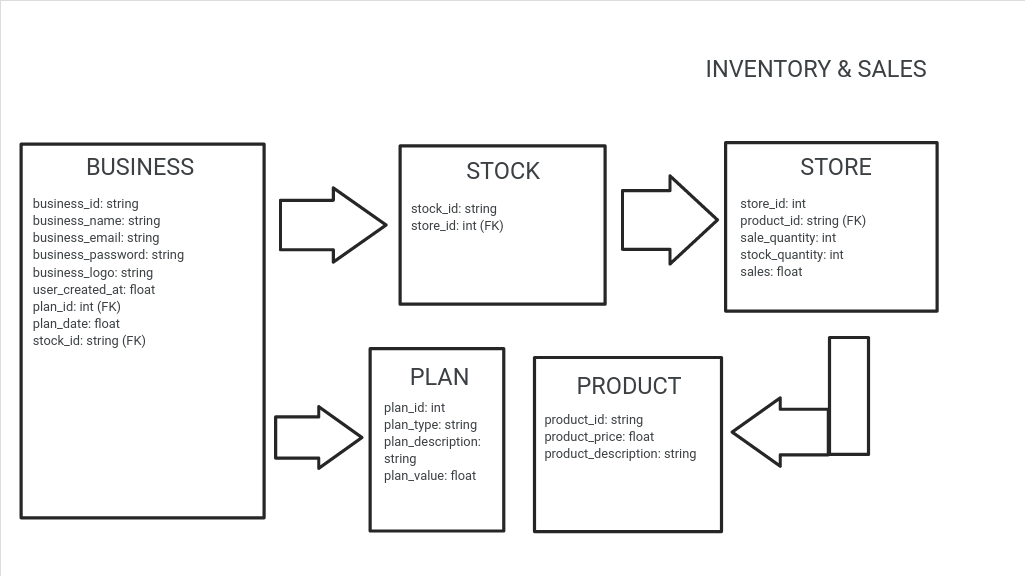
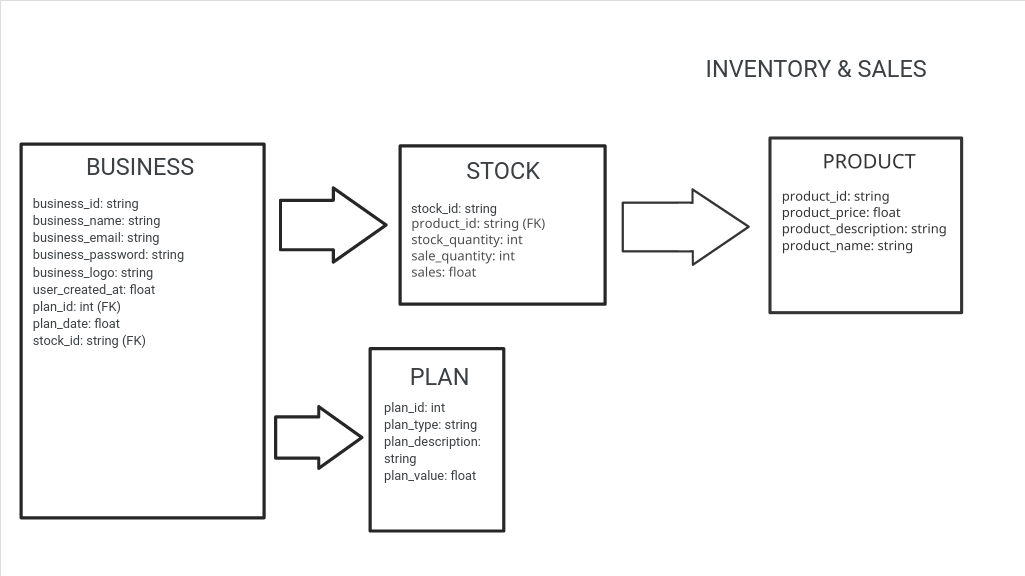
Products controller and db table added

diff --git a/app/controllers/products.py b/app/controllers/products.py
@@ -1,0 +1,40 @@
+from flask.views import MethodView
+from flask import request, jsonify
+
+from app.db.model import Product
+from app.db.dbtool import DBTool
+
+import random
+
+dbt = DBTool()
+
+class Products(MethodView):
+
+    def get(self):
+        try:
+            prod_sto = dbt.get_all(Product) # products stored
+            prod_list = []
+            for prod in prod_sto:
+                p = {
+                        'productId': prod.product_id,
+                        'productName': prod.product_name,
+                        'productDescription': prod.product_description,
+                        'productPrice': prod.product_price,
+                        }
+                prod_list.append(p)
+            return jsonify({'status': 'GET Products', 'products': prod_list})
+        except Exception as ex:
+            return jsonify({'status': 'exception', 'ex': str(ex)})
+
+    def post(self):
+        try:
+            prod_log = request.get_json()
+            new_prod = Product(
+                    product_id = random.randint(0, 1978),
+                    product_name = prod_log['productName'],
+                    product_description = prod_log['productDescription'],
+                    product_price = float(prod_log['productPrice']))
+            state = dbt.add(new_prod)
+            return jsonify({'status': state})
+        except Exception as ex:
+            return jsonify({'status': 'exception', 'ex': str(ex)})

diff --git a/app/db/model.py b/app/db/model.py
@@ -22,4 +22,20 @@ class User(db.Model):
         self.plan_type = plan_type
         self.business_email = business_email
         self.business_password = business_password
- 
+
+class Product(db.Model):
+    
+    __tablename__ = 'Product'
+
+    product_id = db.Column(db.String(10), primary_key=True, nullable=False)
+    product_name = db.Column(db.String(30), nullable=False)
+    product_description = db.Column(db.String(60), nullable=False)
+    product_price = db.Column(db.Float, nullable=False)
+
+    def __init__(self, product_id, product_name, product_description,
+                 product_price):
+        self.product_id = product_id
+        self.product_name = product_name
+        self.product_description = product_description
+        self.product_price = product_price
+

diff --git a/app/__init__.py b/app/__init__.py
@@ -10,13 +10,13 @@ def create_app():
     CORS(app, support_credentials=True)
 
     with app.app_context():
-        from .routes import user, ctrl_panel 
-        add_routes(app, user, ctrl_panel)
+        from .routes import user, item, ctrl_panel 
+        add_routes(app, user, item, ctrl_panel)
         db.init_app(app)
         return app
 
-def add_routes(app, user, ctrl_panel):
-        #User routes
+def add_routes(app, user, item, ctrl_panel):
         app.add_url_rule(user['login'], view_func=user['view_func_login'])
         app.add_url_rule(user['register'], view_func=user['view_func_register'])
+        app.add_url_rule(item['product'], view_func=item['view_func_product'])
         app.add_url_rule(ctrl_panel['panel'], view_func=ctrl_panel['view_func_panel']) 

diff --git a/app/db/dbtool.py b/app/db/dbtool.py
@@ -39,8 +39,19 @@ class DBTool:
 
 
     def get_by_email(self, table_name, value):
+        # Limitar table_name a la tabla del usuario porque es la unica
+        # que posee email.
         try:
             data = db.session.query(table_name).filter_by(business_email=value).first()
             return data
         except Exception as ex:
             error_msg = {'exception': 'dbtool_get_by_email', 'ex': str(ex)}
+
+
+    def get_by_product(self, table_name, value):
+        # table_name corresponde a la tabla de productos.
+        try:
+            data = db.session.query(table_name).filter_by(product_id=value).first()
+            return data
+        except Exception as ex:
+            error_msg = {'exception': 'dbtool_get_by_product', 'ex': str(ex)}

diff --git a/app/routes.py b/app/routes.py
@@ -1,11 +1,19 @@
 from .controllers.login import Login 
 from .controllers.register import Register
 from .controllers.panel import Panel
+from .controllers.products import Products
 
 user = {
         "register": "/register", "view_func_register": Register.as_view("app_register"),
         "login": "/login", "view_func_login": Login.as_view("app_login"), 
         }
+
+
+item = {
+        "product": "/product", "view_func_product":
+        Products.as_view("app_product")
+        }
+
 
 ctrl_panel = {
         "panel": "/cpanel", "view_func_panel": Panel.as_view("app_panel")

diff --git a/app/helpers/create_db.py b/app/helpers/create_db.py
@@ -1,6 +1,7 @@
 from flask import Flask
 from db.model import db, User
 
+# Se debe ejecutar situado en app
 def create_db():
     app = Flask(__name__)
     app.config['SQLALCHEMY_DATABASE_URI'] = 'mysql+pymysql://grim:Gammagr.03@localhost/gmdb'
